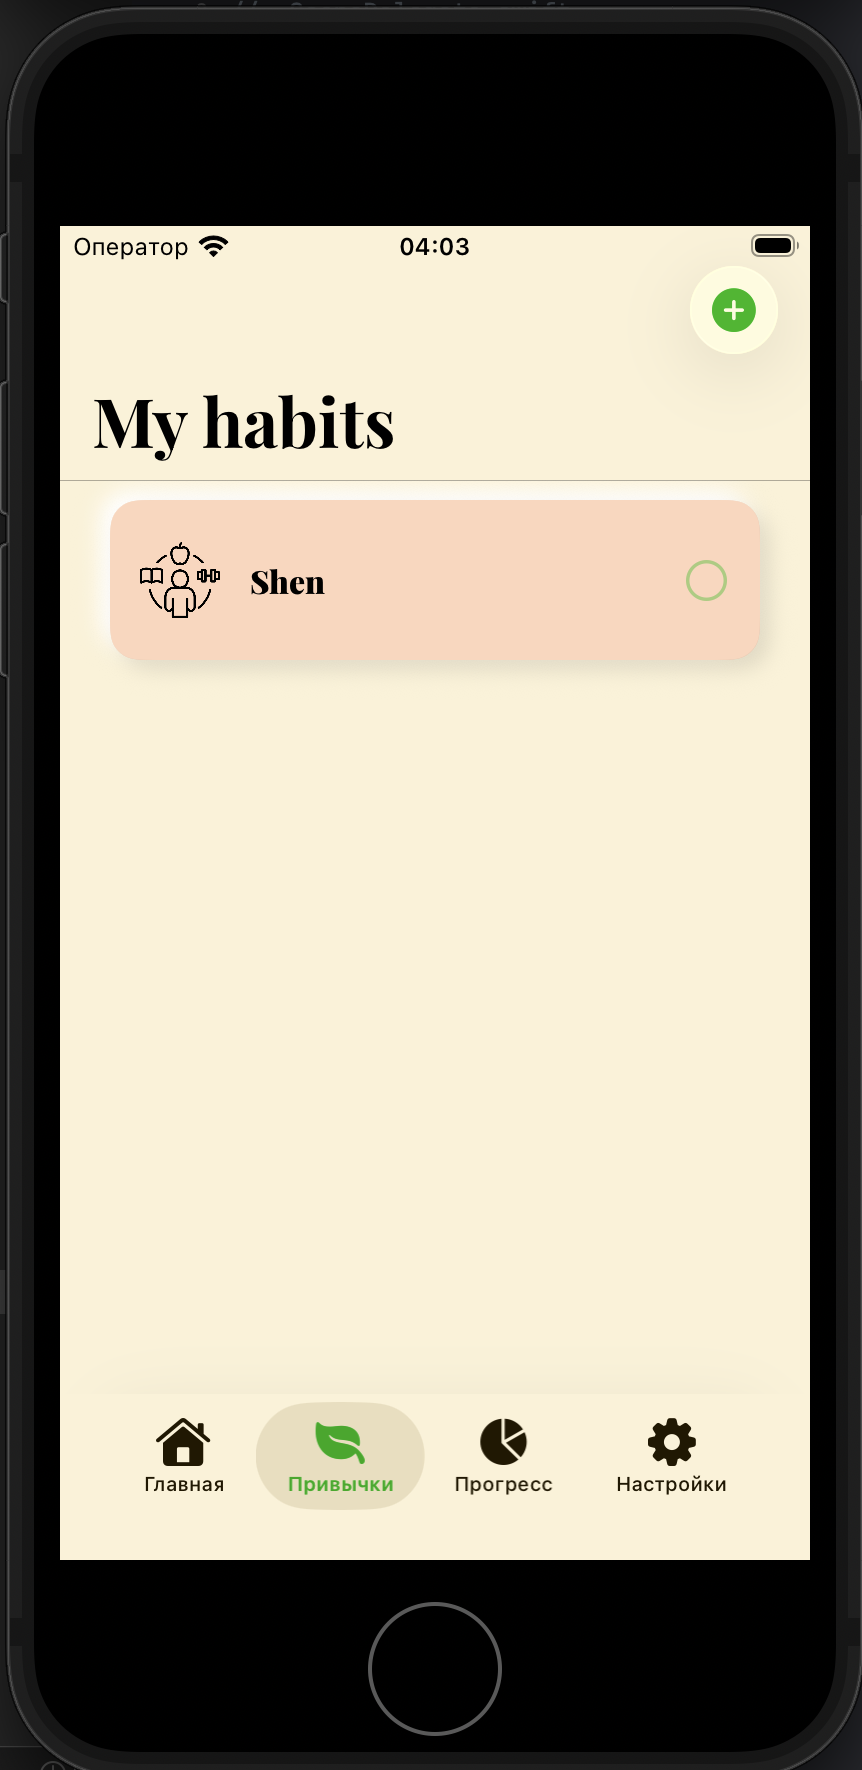
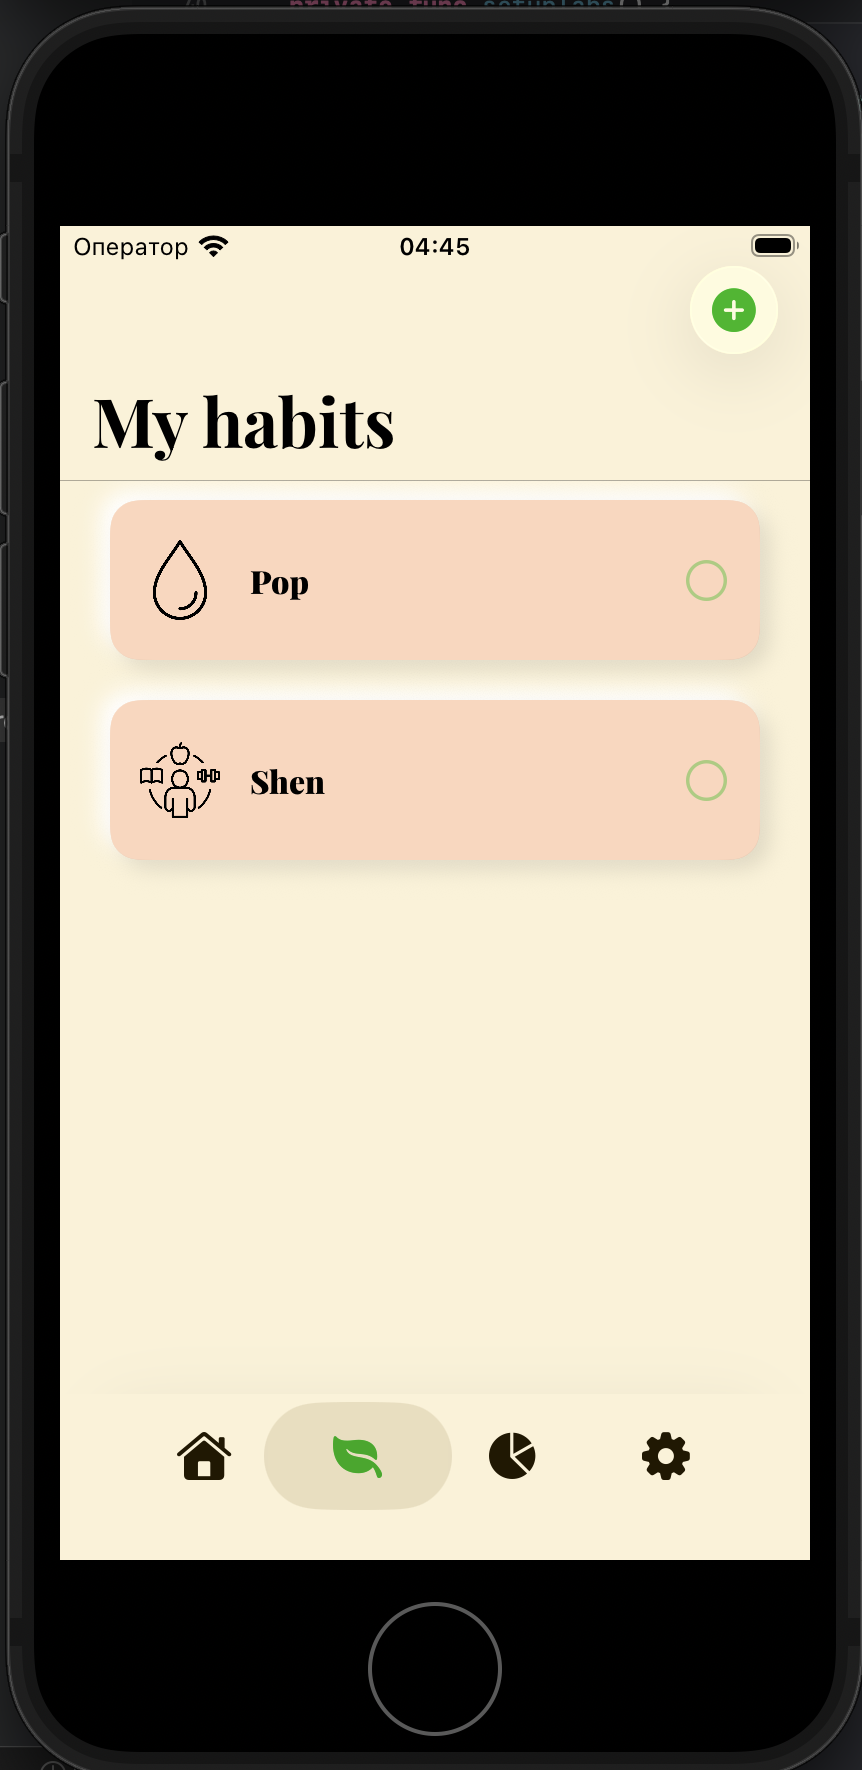
Added screens

diff --git a/rooh_test/Screens/Settings/SettingsViewController.swift b/rooh_test/Screens/Settings/SettingsViewController.swift
@@ -117,6 +117,8 @@ final class SettingsViewController: UIViewController, UITableViewDelegate, UITab
     private func setupNavigationAppearance() {
         guard let navBar = navigationController?.navigationBar else { return }
         
+        tabBarItem.title = ""
+        
         let appearance = UINavigationBarAppearance()
         appearance.configureWithOpaqueBackground()
         appearance.backgroundColor = UIColor(named: Constants.backgroundColorName)

diff --git a/rooh_test/Screens/MainTabBar/MainTabBarViewController.swift b/rooh_test/Screens/MainTabBar/MainTabBarViewController.swift
@@ -65,6 +65,10 @@ final class MainTabBarViewController: UITabBarController {
                 vc: settingsVC
             )
         ]
+        tabBar.items?.forEach {
+            $0.title = ""
+            $0.imageInsets = UIEdgeInsets(top: 6, left: 0, bottom: -6, right: 0)
+        }
     }
     
     private func createNav(with title: String, image: String, vc: UIViewController) -> UINavigationController {

diff --git a/rooh_test/Screens/HabitsList/HabitsListViewController.swift b/rooh_test/Screens/HabitsList/HabitsListViewController.swift
@@ -91,6 +91,8 @@ final class HabitsListViewController: UIViewController {
     }
     
     private func setupNavigationBar() {
+        tabBarItem.title = ""
+        
         navigationItem.title = Constants.navTitle
         navigationItem.largeTitleDisplayMode = .always
         navigationController?.navigationBar.prefersLargeTitles = true

diff --git a/rooh_test/Screens/Dashboard/DashboardViewController.swift b/rooh_test/Screens/Dashboard/DashboardViewController.swift
@@ -137,6 +137,8 @@ final class DashboardViewController: UIViewController {
     
     // MARK: - UI
     private func configureUI() {
+        tabBarItem.title = ""
+        
         view.addSubview(welcomeLabel)
         view.addSubview(progressCard)
         view.addSubview(tableView)

diff --git a/rooh_test/Screens/Stats/StatsViewController.swift b/rooh_test/Screens/Stats/StatsViewController.swift
@@ -182,6 +182,8 @@ final class StatsViewController: UIViewController {
     
     // MARK: - UI
     private func setupLayout() {
+        tabBarItem.title = ""
+        
         view.addSubview(titleLabel)
         view.addSubview(subtitleLabel)
         view.addSubview(ringContainer)

diff --git a/rooh_test/Screens/Dashboard/TaskTableViewCell.swift b/rooh_test/Screens/Dashboard/TaskTableViewCell.swift
@@ -106,6 +106,7 @@ final class TaskTableViewCell: UITableViewCell {
     
     // MARK: - Setup
     private func setupUI() {
+        
         backgroundColor = .clear
         selectionStyle = .none
         
